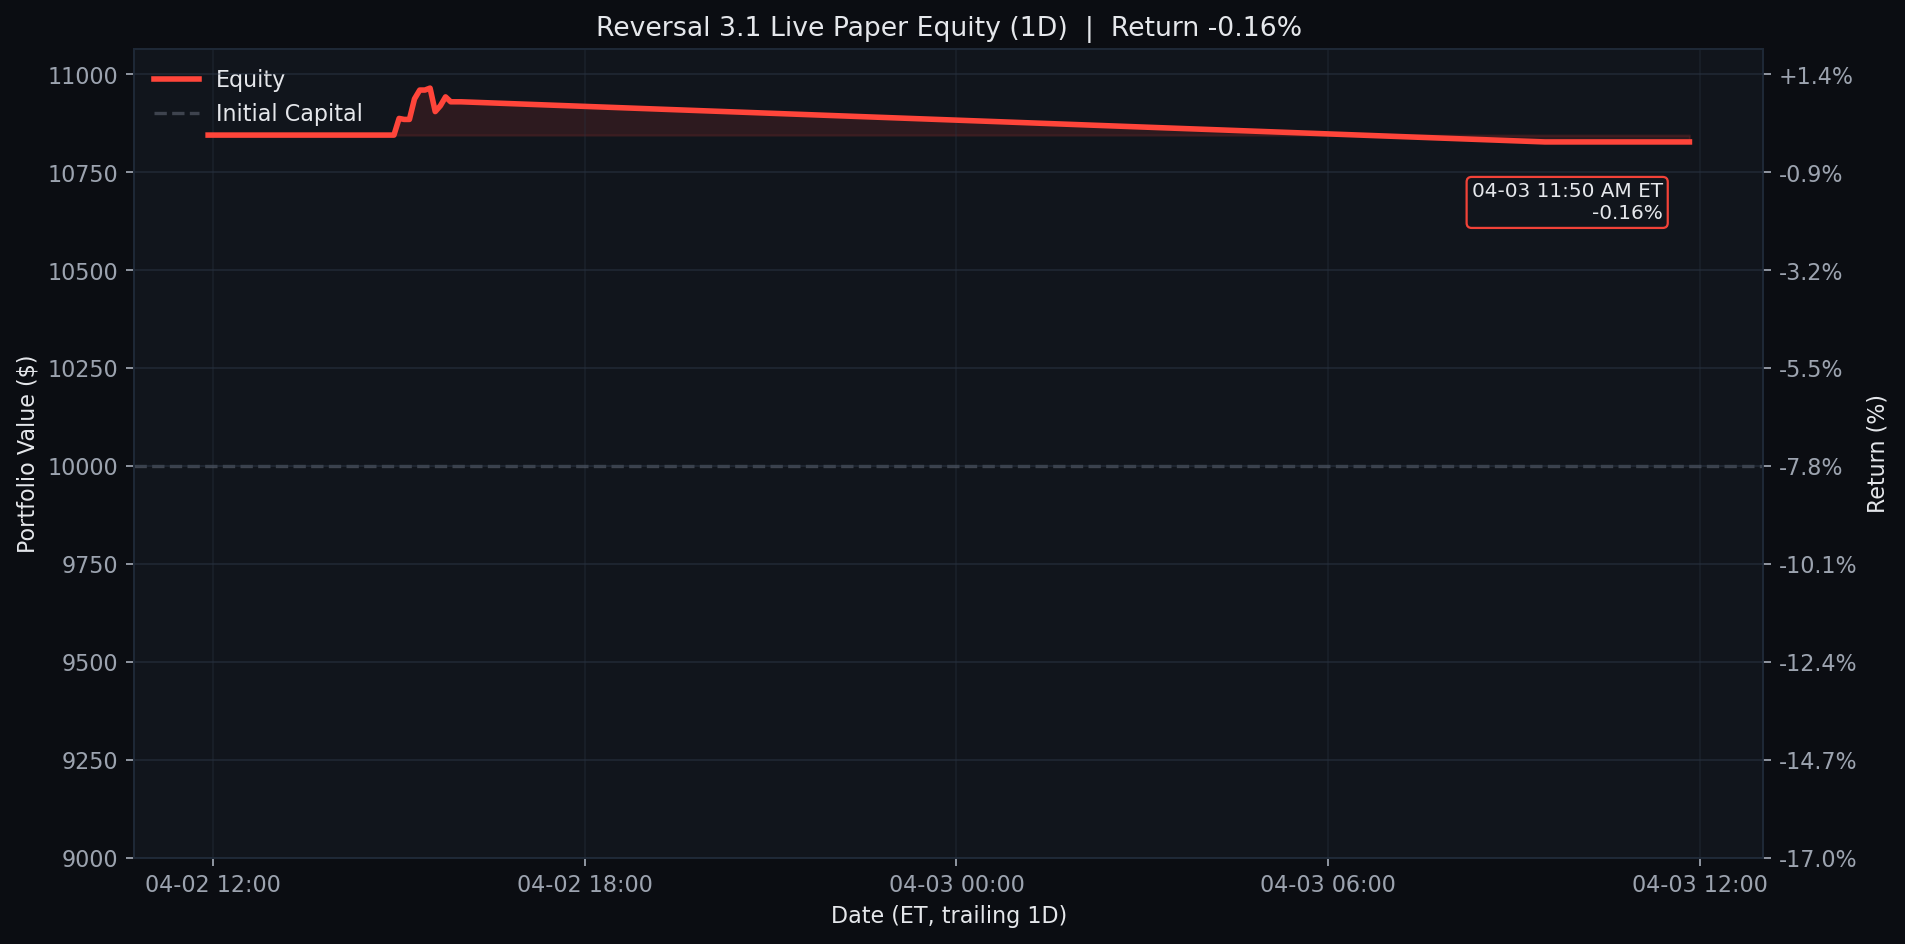
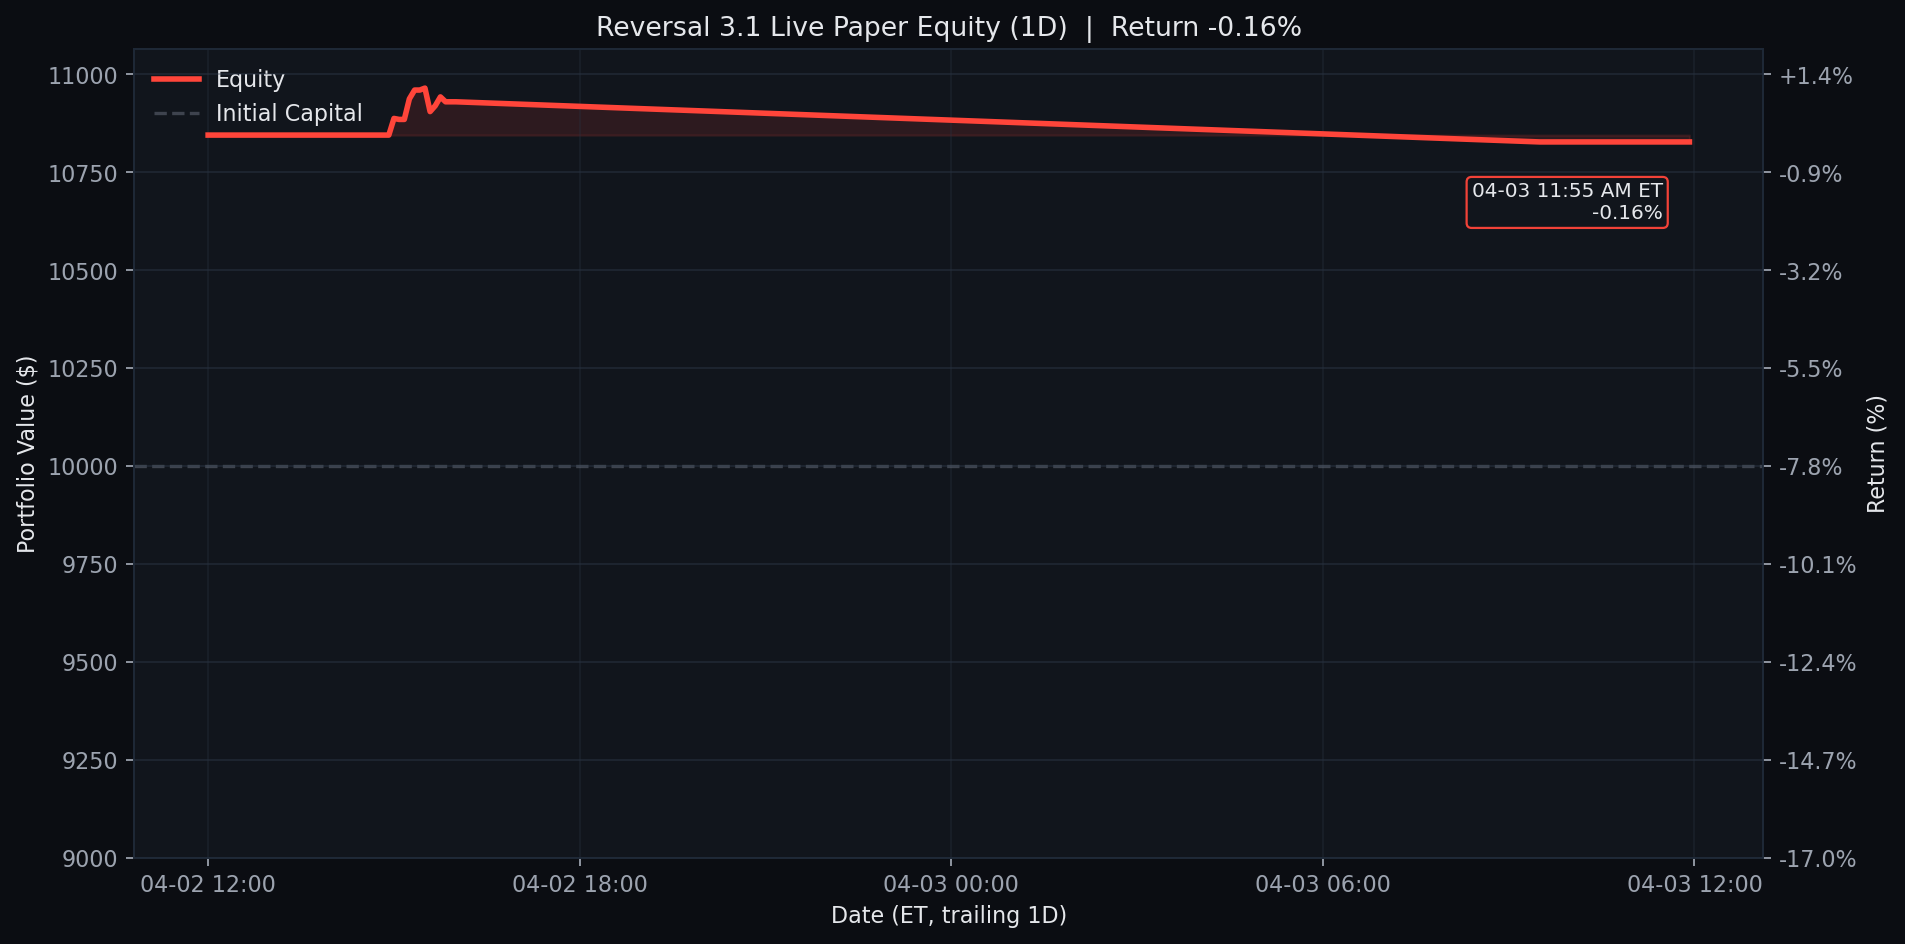
Update Reversal 3.1 live paper test 2026-04-03 11:55 ET

diff --git a/results/reversal_3_1_live/README.md b/results/reversal_3_1_live/README.md
@@ -1,6 +1,6 @@
 # Reversal 3.1 Live Paper Test
 
-Last updated (ET): `2026-04-03 11:50:05 EDT`
+Last updated (ET): `2026-04-03 11:55:05 EDT`
 Last processed slot: `manage_1200`
 
 ## Active Configuration
@@ -58,6 +58,7 @@ ticker  success_rate_%  matched_signals  current_drop_%  target_rebound_$  targe
 
 ```text
                     timestamp_et        slot   event_type                          detail
+2026-04-03T11:55:05.888604-04:00 manage_1200 slot_skipped {"reason": "already_processed"}
 2026-04-03T11:40:00.980212-04:00 manage_1130 slot_skipped {"reason": "already_processed"}
 2026-04-03T11:35:05.892486-04:00 manage_1130 slot_skipped {"reason": "already_processed"}
 2026-04-03T11:30:05.885882-04:00 manage_1130 slot_skipped {"reason": "already_processed"}
@@ -67,7 +68,6 @@ ticker  success_rate_%  matched_signals  current_drop_%  target_rebound_$  targe
 2026-04-03T11:00:01.980341-04:00 manage_1100 slot_skipped {"reason": "already_processed"}
 2026-04-03T10:55:05.892037-04:00 manage_1100 slot_skipped {"reason": "already_processed"}
 2026-04-03T10:40:04.893559-04:00 manage_1030 slot_skipped {"reason": "already_processed"}
-2026-04-03T10:35:05.890516-04:00 manage_1030 slot_skipped {"reason": "already_processed"}
 ```
 
 ## Equity Curves

diff --git a/README.md b/README.md
@@ -3,7 +3,7 @@
 <!-- reversal-3.1-live:start -->
 ## Reversal 3.1 Live Paper Test
 
-- Last updated (ET): `2026-04-03 11:50:05 EDT`
+- Last updated (ET): `2026-04-03 11:55:05 EDT`
 - Equity: `$10,827.50` | Realized: `$845.00` | Unrealized: `$-17.50` | Open positions: `1`
 - Today closed trades: `0`
 - Current slot: `manage_1200`
